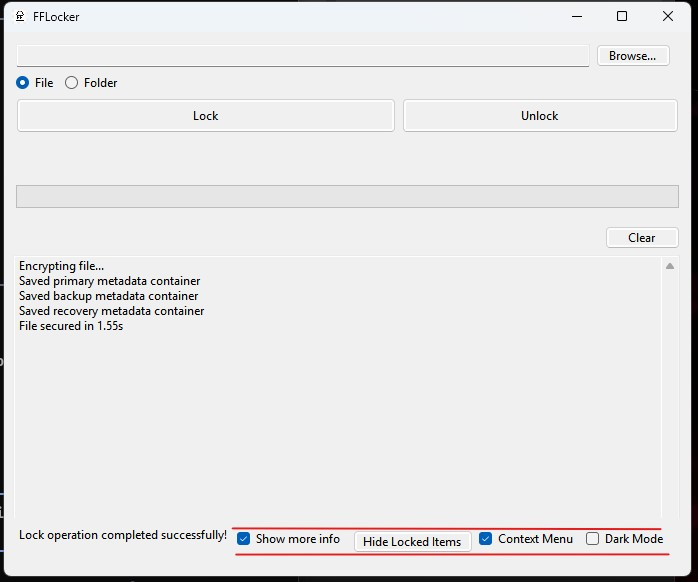
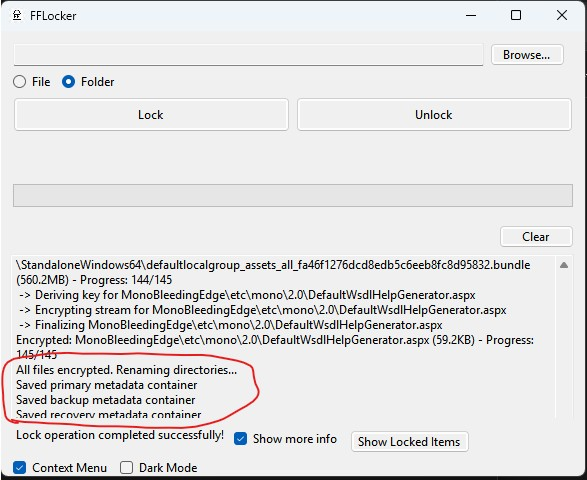
fixed progress bar in GUI show more info in show more info :)

diff --git a/Program.cs b/Program.cs
@@ -443,7 +443,7 @@ namespace FFLocker
                 .Where(f => f.Size > 0).ToList();
 
             var totalBytes = fileInfos.Sum(f => f.Size);
-            logger.Report($"Encrypting {fileInfos.Count} files ({FormatSize(totalBytes)})");
+            logger.Report($"Found {fileInfos.Count} files to encrypt, total size: {FormatSize(totalBytes)}.");
 
             var fileMappings = new ConcurrentBag<FileMapping>();
             var processedFiles = 0;
@@ -451,18 +451,22 @@ namespace FFLocker
 
             var parallelOptions = new ParallelOptions { MaxDegreeOfParallelism = Config.MaxParallelism };
 
+            logger.Report($"Starting encryption with up to {Config.MaxParallelism} parallel tasks...");
+
             Parallel.ForEach(fileInfos, parallelOptions, fileInfo =>
             {
                 var mapping = EncryptFile(root, fileInfo.RelPath, masterKeyBuffer.Buffer, crypto, logger);
                 fileMappings.Add(mapping);
                 
                 var processed = Interlocked.Increment(ref processedFiles);
-                Interlocked.Add(ref processedBytes, fileInfo.Size);
+                var currentBytes = Interlocked.Add(ref processedBytes, fileInfo.Size);
                 
                 var percentage = (int)((double)processed / fileInfos.Count * 100);
                 progress.Report(percentage);
+                logger.Report($"Encrypted: {fileInfo.RelPath} ({FormatSize(fileInfo.Size)}) - Progress: {processed}/{fileInfos.Count}");
             });
 
+            logger.Report("All files encrypted. Renaming directories...");
             var dirMappings = new List<FileMapping>();
             var dirRelPaths = Directory.GetDirectories(root, "*", SearchOption.AllDirectories)
                 .Select(d => Path.GetRelativePath(root, d)).OrderByDescending(r => r.Length).ToList();
@@ -526,23 +530,27 @@ namespace FFLocker
                     Directory.Move(obfFull, realFull);
             }
 
-            logger.Report($"Decrypting {metadata.Files.Count} files...");
+            logger.Report($"Decrypting {metadata.Files.Count} files with up to {Config.MaxParallelism} parallel tasks...");
             var processedFiles = 0;
 
             Parallel.ForEach(metadata.Files, new ParallelOptions { MaxDegreeOfParallelism = Config.MaxParallelism }, fileEntry =>
             {
+                logger.Report($"Decrypting: {fileEntry.Real}");
                 DecryptFile(root, fileEntry, masterKeyBuffer.Buffer, logger);
                 
                 var processed = Interlocked.Increment(ref processedFiles);
                 var percentage = (int)((double)processed / metadata.Files.Count * 100);
                 progress.Report(percentage);
+                logger.Report($"Decrypted: {fileEntry.Real} - Progress: {processed}/{metadata.Files.Count}");
             });
 
+            logger.Report("All files decrypted. Cleaning up metadata containers...");
             DualMetadataManager.CleanupContainers(root, logger);
             LockedItemsDatabase.Remove(root);
 
             sw.Stop();
-            logger.Report($"Folder unlocked in {sw.Elapsed.TotalSeconds:F2}s");
+            var decryptionRate = metadata.Files.Sum(f => new FileInfo(Path.Combine(root, f.Real)).Length) / (1024 * 1024.0) / sw.Elapsed.TotalSeconds;
+            logger.Report($"Folder unlocked in {sw.Elapsed.TotalSeconds:F2}s - Rate: {decryptionRate:F1} MB/s");
         }
 
         public static string LockFile(string filePath, SecureBuffer password, IProgress<int> progress, IProgress<string> logger)
@@ -563,7 +571,7 @@ namespace FFLocker
             Array.Copy(derivedKey, masterKeyBuffer.Buffer, 32);
             CryptographicOperations.ZeroMemory(derivedKey);
 
-            logger.Report($"Encrypting file...");
+            logger.Report($"Encrypting file: {relPath} ({FormatSize(new FileInfo(filePath).Length)})");
             var mapping = EncryptFile(root, relPath, masterKeyBuffer.Buffer, crypto, logger);
             progress.Report(100);
 
@@ -575,10 +583,12 @@ namespace FFLocker
                 Checksum = ComputeMetadataChecksum(new List<FileMapping> { mapping }, new List<FileMapping>())
             };
 
+            logger.Report("Saving metadata...");
             DualMetadataManager.SaveMetadata(root, metadata, masterKeyBuffer.Buffer, crypto, logger);
 
             sw.Stop();
-            logger.Report($"File secured in {sw.Elapsed.TotalSeconds:F2}s");
+            var encryptionRate = new FileInfo(Path.Combine(root, mapping.Obf)).Length / (1024 * 1024.0) / sw.Elapsed.TotalSeconds;
+            logger.Report($"File secured in {sw.Elapsed.TotalSeconds:F2}s - Rate: {encryptionRate:F1} MB/s");
             
             return Path.Combine(root, mapping.Obf);
         }
@@ -608,15 +618,17 @@ namespace FFLocker
                 throw new Exception("File not found in metadata.");
             }
 
-            logger.Report($"Decrypting file...");
+            logger.Report($"Decrypting file: {fileEntry.Real}");
             DecryptFile(root, fileEntry, masterKeyBuffer.Buffer, logger);
             progress.Report(100);
 
+            logger.Report("Cleaning up metadata containers...");
             DualMetadataManager.CleanupContainers(root, logger);
             LockedItemsDatabase.Remove(Path.Combine(root, fileEntry.Real));
 
             sw.Stop();
-            logger.Report($"File unlocked in {sw.Elapsed.TotalSeconds:F2}s");
+            var decryptionRate = new FileInfo(Path.Combine(root, fileEntry.Real)).Length / (1024 * 1024.0) / sw.Elapsed.TotalSeconds;
+            logger.Report($"File unlocked in {sw.Elapsed.TotalSeconds:F2}s - Rate: {decryptionRate:F1} MB/s");
         }
 
         static FileMapping EncryptFile(string root, string relPath, byte[] masterKey, SecureCrypto crypto, IProgress<string> logger)
@@ -632,8 +644,13 @@ namespace FFLocker
             
             try
             {
+                logger.Report($" -> Deriving key for {relPath}");
                 DeriveFileKey(masterKey, relPath, fileSalt, fileKeyBuffer.Buffer);
+                
+                logger.Report($" -> Encrypting stream for {relPath}");
                 EncryptFileStream(inputPath, tempPath, fileKeyBuffer.Buffer, crypto);
+                
+                logger.Report($" -> Finalizing {relPath}");
                 File.Move(tempPath, outputPath);
                 SecureDeleteFile(inputPath);
                 
@@ -661,15 +678,20 @@ namespace FFLocker
             
             try
             {
+                logger.Report($" -> Deriving key for {entry.Real}");
                 DeriveFileKey(masterKey, entry.Real, entry.FileSalt, fileKeyBuffer.Buffer);
                 
                 var expectedHash = ComputeHash(entry.Real, entry.Obf);
                 if (expectedHash != entry.Hash)
                 {
+                    logger.Report($"[ERROR] Integrity check failed for {entry.Real}. Expected hash {expectedHash}, but got {entry.Hash}.");
                     throw new InvalidDataException($"Integrity verification failed for {entry.Real}");
                 }
                 
+                logger.Report($" -> Decrypting stream for {entry.Real}");
                 DecryptFileStream(encPath, tempPath, fileKeyBuffer.Buffer);
+
+                logger.Report($" -> Finalizing {entry.Real}");
                 File.Move(tempPath, realPath);
                 SecureDeleteFile(encPath);
             }

diff --git a/MainForm.cs b/MainForm.cs
@@ -37,7 +37,7 @@ namespace FFLocker
         private AppSettings _settings;
         private ToolTip _toolTip = new ToolTip();
         private int _baseHeight;
-        private const int PanelHeight = 150;
+        private const int PanelHeight = 180;
 
         public MainForm(AppSettings settings)
         {
@@ -61,15 +61,16 @@ namespace FFLocker
             chkContextMenu.CheckedChanged += chkContextMenu_CheckedChanged;
 
             chkShowInfo.CheckedChanged -= chkShowInfo_CheckedChanged;
-            chkShowInfo.Checked = _settings.ShowInfo;
+            chkShowInfo.Checked = false;
             chkShowInfo.CheckedChanged += chkShowInfo_CheckedChanged;
 
             cmbDisplayNameType.SelectedIndex = 0;
             
             _baseHeight = panelMain.Height + flowLayoutPanelControls.Height + 40;
-            this.Height = _baseHeight;
-
+            
             UpdateUIVisibility();
+            
+            this.txtPassword.KeyDown += new System.Windows.Forms.KeyEventHandler(this.txtPassword_KeyDown);
         }
 
         private void InitializeToolTips()
@@ -293,11 +294,17 @@ namespace FFLocker
                 if (chkShowInfo.Checked) {
                     if (this.InvokeRequired)
                     {
-                        this.Invoke(new Action(() => txtLog.AppendText(m + Environment.NewLine)));
+                        this.Invoke(new Action(() => {
+                            txtLog.AppendText(m + Environment.NewLine);
+                            txtLog.SelectionStart = txtLog.Text.Length;
+                            txtLog.ScrollToCaret();
+                        }));
                     }
                     else
                     {
                         txtLog.AppendText(m + Environment.NewLine);
+                        txtLog.SelectionStart = txtLog.Text.Length;
+                        txtLog.ScrollToCaret();
                     }
                 }
             });
@@ -349,8 +356,6 @@ namespace FFLocker
 
         private void chkShowInfo_CheckedChanged(object? sender, EventArgs e)
         {
-            _settings.ShowInfo = chkShowInfo.Checked;
-            Program.SaveSettings(_settings);
             if (chkShowInfo.Checked)
             {
                 panelLockedItems.Visible = false;

diff --git a/MainForm.Designer.cs b/MainForm.Designer.cs
@@ -174,6 +174,7 @@ namespace FFLocker
             this.txtPassword.Size = new System.Drawing.Size(327, 23);
             this.txtPassword.TabIndex = 1;
             this.txtPassword.UseSystemPasswordChar = true;
+            this.txtPassword.KeyDown += new System.Windows.Forms.KeyEventHandler(this.txtPassword_KeyDown);
             // 
             // lblPassword
             // 

diff --git a/AppSettings.cs b/AppSettings.cs
@@ -9,6 +9,5 @@ namespace FFLocker
         public Size WindowSize { get; set; } = Size.Empty;
         public bool WindowMaximized { get; set; } = false;
         public bool ContextMenuEnabled { get; set; } = false;
-        public bool ShowInfo { get; set; } = false;
     }
 }
